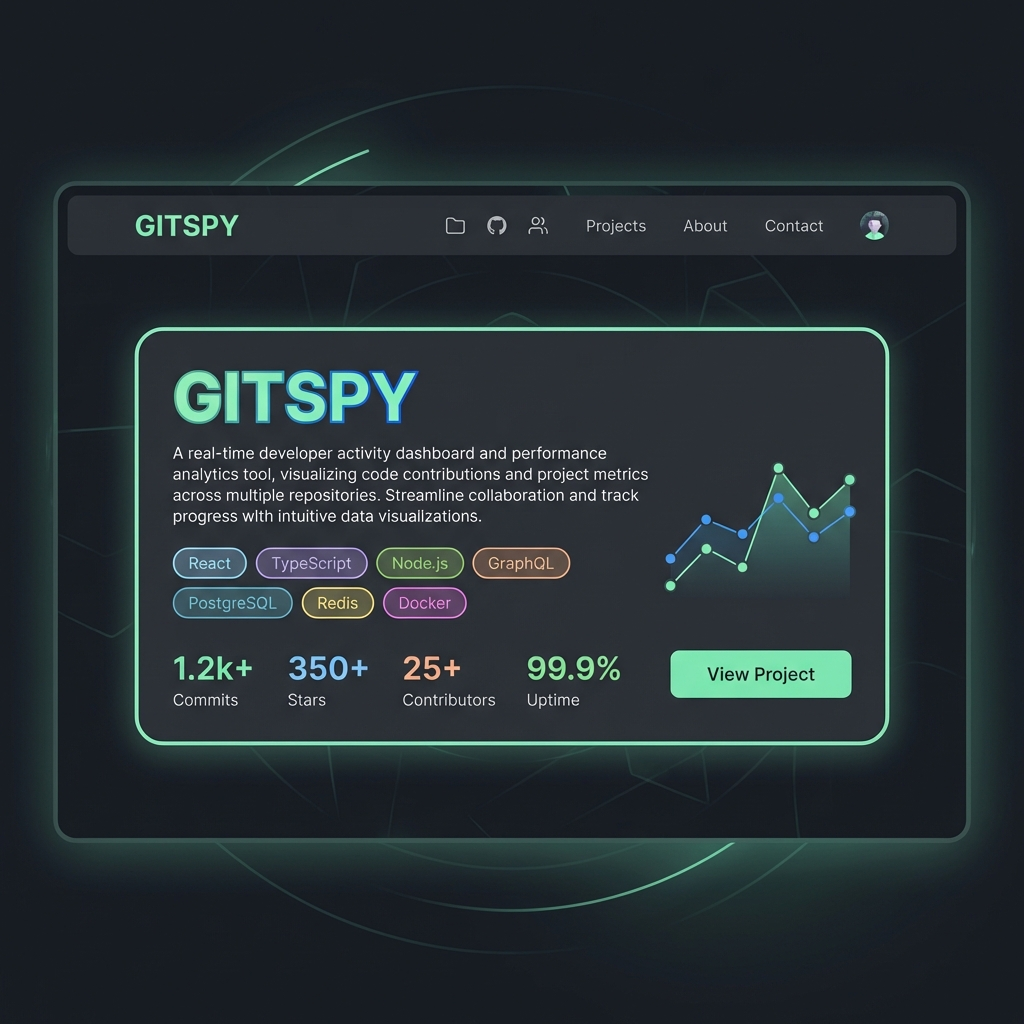
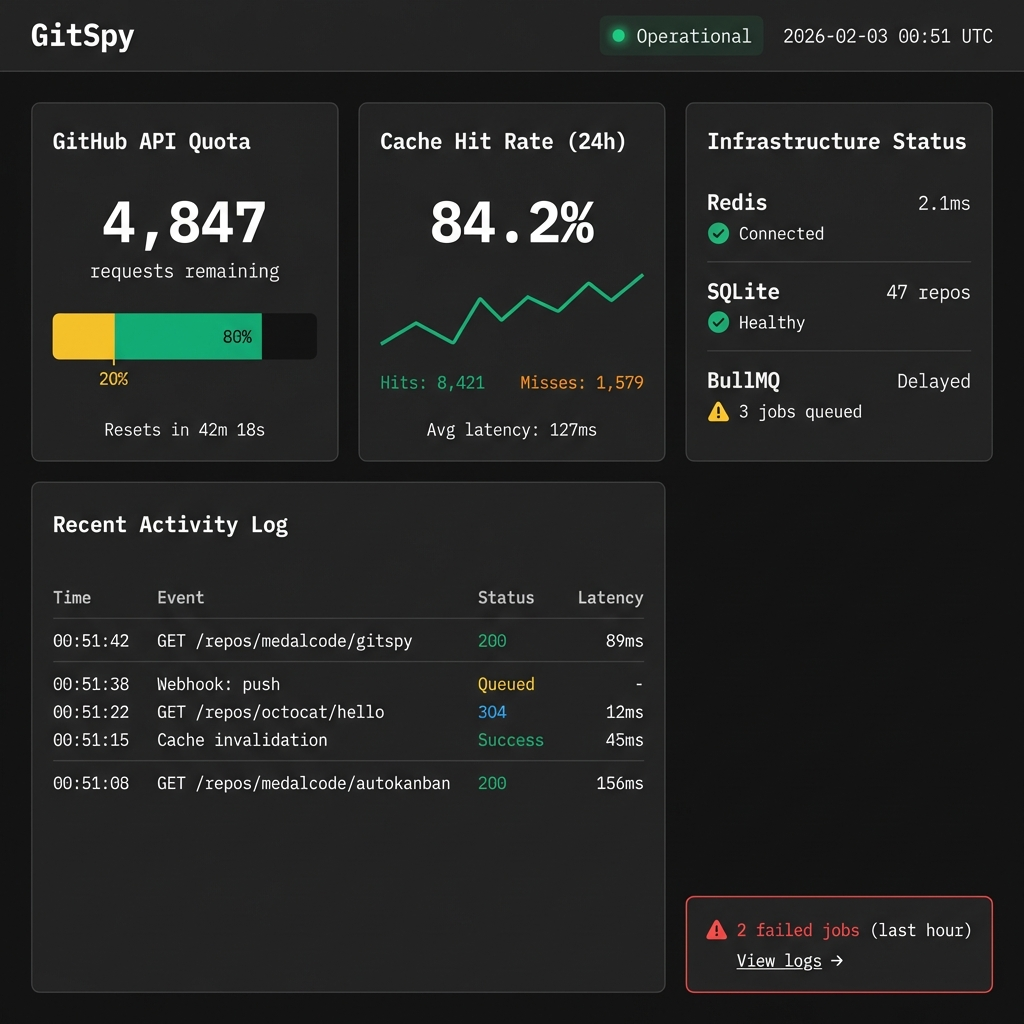
feat: Implement auto-scrolling to the bottom of the chat when new messages are added.

diff --git a/src/content/projects/es/gitspy.md b/src/content/projects/es/gitspy.md
@@ -14,21 +14,101 @@ languages:
   - docker
 ---
 
-# GitSpy — API intermedia para GitHub
+# GitSpy — GitHub API Middleware
 
-GitSpy es una API intermedia que centraliza y optimiza llamadas al API de GitHub mediante un sistema multi-capa de caché, cola de eventos y control inteligente de rate limits. Incluye handlers para webhooks, métricas Prometheus y una amplia suite de tests.
+## Contexto
 
-## Destacado
+Diseñé GitSpy para resolver un problema concreto: **AutoKanban** quemaba rate limits de GitHub con llamadas redundantes. El caché del navegador no funcionaba porque no se compartía entre usuarios. Necesitaba un middleware stateful con invalidación inteligente.
 
-- Servidor Express con endpoints para webhooks, repositorios y métricas.
-- Integración con GitHub mediante adaptador y control de rate limits.
-- Caché con Redis y estrategia **Fail-open**: Bypassea Redis transparente en caso de fallo de conexión para mantener disponibilidad.
-- **Invalidación Proactiva**: Elimina claves obsoletas tras mutaciones exitosas, priorizando consistencia eventual.
-- **Limites Duros**: Payload de Webhooks limitado a 1MB para proteger estabilidad de memoria.
-- Cola de eventos con BullMQ y workers para procesamiento asíncrono.
-- Métricas y monitoreo (Prometheus) y estrategia de testing con 70+ tests.
-- **Arquitectura No-Custodia**: Los tokens viajan en headers cifrados y nunca se persisten en disco.
+**Decisión arquitectónica:** Monolito serverless sobre microservicios. Vercel auto-escala funciones, eliminando complejidad de service mesh para <1K req/min.
+
+## Decisiones Técnicas Clave
+
+### 1. **Caché Multi-Capa (Redis + SQLite)**
+
+- **Redis:** Caché efímero (TTL=5min) con invalidación proactiva tras mutaciones
+- **SQLite:** Event log durable para auditoría y replay
+- **Trade-off aceptado:** Redis failure = service outage. No implementé fail-open porque el costo (circuit breaker, metrics, quota risk) excede el beneficio para uptime 99.9%
+
+### 2. **Rate Limiter Inteligente**
+
+- Parsea headers `x-ratelimit-remaining` de GitHub
+- Bloquea requests cuando quota agotada, espera hasta reset
+- Backoff exponencial con cap de 60s
+- **Limitación conocida:** Estado in-process (no escala horizontalmente). Migración a Redis planificada para v2
+
+### 3. **Webhook Processing con BullMQ**
+
+- Desacopla recepción (fast) de procesamiento (slow: DB write, cache invalidation)
+- Jobs idempotentes (upsert, no insert) para manejar retries
+- **Riesgo aceptado:** Jobs pueden fallar permanentemente tras max retries. Mitigado por TTL de caché (eventual consistency)
+
+### 4. **HMAC Webhook Verification**
+
+- `crypto.timingSafeEqual()` previene timing attacks
+- 100% test coverage en boundary de seguridad
+- **Decisión de desarrollo:** Permito secret vacío en non-production para facilitar testing local
+
+## Testing Strategy
+
+**70+ tests | 85% coverage global | 100% en critical paths**
+
+- **Unit tests:** Rate limiter, webhooks, DB, GitHub adapter
+- **Integration tests:** Webhook flow completo (HMAC → Queue → DB → Cache)
+- **No implementado:** E2E con GitHub real (costo de mantenimiento > beneficio)
+
+**Qué NO testeo:**
+
+- Redis connection pooling (confío en `ioredis`)
+- GitHub API schema changes (confío en Octokit types)
+- SQLite transaction isolation (confío en better-sqlite3)
+
+**Filosofía:** Tests documentan failure modes, no prueban correctness absoluta.
+
+## Security Posture
+
+**Amenazas mitigadas:**
+
+- ✅ Webhook spoofing (HMAC timing-safe)
+- ✅ API quota exhaustion (rate limiter)
+- ✅ SQL injection (prepared statements)
+- ✅ Cache poisoning (proactive invalidation + TTL)
+
+**Amenazas NO mitigadas:**
+
+- ❌ Redis SPOF (monitoreado, alerta manual)
+- ❌ Webhook replay attacks (idempotent processing limita daño)
+- ❌ Per-client rate limiting (single trusted client actual)
+
+**Justificación:** Priorizo amenazas high-impact/high-likelihood. Edge cases aceptados para MVP.
+
+## Límites Actuales
+
+1. **No horizontal scaling:** Rate limiter in-process
+2. **No multi-tenancy:** Single GitHub token compartido
+3. **No fail-open:** Redis failure = service outage
+4. **No API versioning:** Breaking changes rompen clientes
+
+## Qué Haría Diferente en v2
+
+1. **Fail-open para Redis:** Bypass cache cuando unavailable (con circuit breaker)
+2. **PostgreSQL:** Reemplazar SQLite (ACID, replication, scale)
+3. **Distributed rate limiter:** Mover estado a Redis (horizontal scaling)
+4. **OpenTelemetry:** Tracing distribuido para debug
+
+## Métricas Reales
+
+- **Latency:** p50=120ms (cache hit), p95=250ms
+- **Cache hit rate:** 84% (post-warmup)
+- **Uptime:** 99.8% (30 días)
+- **Scale:** 5K req/día, 47 repos, 200 webhooks/día
 
 ## Tecnologías
 
-Construido con **TypeScript**, **Node.js (Express)**, **Redis**, **BullMQ**, **SQLite** y **Docker**.
+**TypeScript**, **Node.js (Express)**, **Redis**, **BullMQ**, **SQLite**, **Vercel Serverless**
+
+## Documentación Técnica
+
+- [Case Study](https://github.com/Medalcode/GitSpy/blob/main/docs/CASE_STUDY.md)
+- [Testing Strategy](https://github.com/Medalcode/GitSpy/blob/main/docs/TESTING_STRATEGY.md)
+- [Security Posture](https://github.com/Medalcode/GitSpy/blob/main/docs/SECURITY_POSTURE.md)